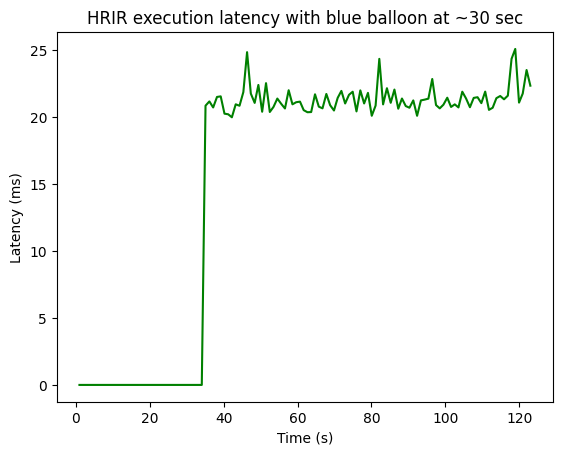
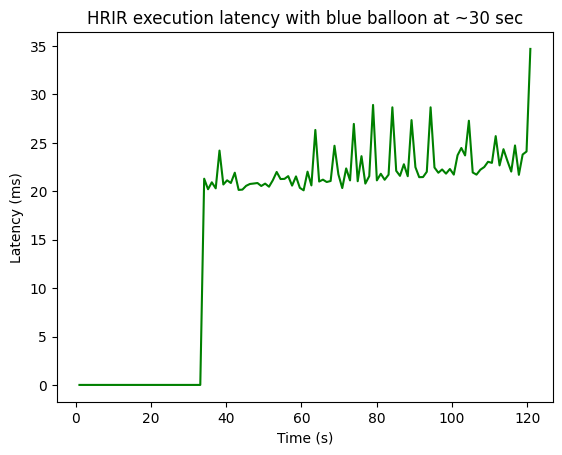
fps and latency tests finished

diff --git a/code/object_localization.py b/code/object_localization.py
@@ -204,7 +204,7 @@ def audio_process(conn, sr, master_clock):
             if (current_time - start_time) >= latency_interval:
                 dropped.append(dropped_targets)
                 latency.append(calc_t*1000) #latency will be in milliseconds
-                atTime.append(current_time-base_time)
+                atTime.append(current_time-master_clock)
                 dropped_targets = 0
                 counter = 0
                 start_time = time.time()
@@ -214,21 +214,23 @@ def audio_process(conn, sr, master_clock):
         stream.stop()
         stream.close()
 
+        #Latency tests:
+        """
         plt.plot(atTime, latency, color="green")
-        plt.title('HRIR execution latency with blue balloon at ~30 sec')
+        plt.title('HRIR execution latency with human at ~30 sec')
         plt.xlabel('Time (s)')
         plt.ylabel('Latency (ms)')
 
-        plt.savefig("per_sec_latency_plotCol_blueBalloon_30sec_check.png", bbox_inches='tight')
+        plt.savefig("per_sec_latency_plotNN_human_30sec.png", bbox_inches='tight')
 
         plt.clf()
 
         plt.plot(atTime, dropped, color="orange")
-        plt.title('Amount of old targets discarded with blue balloon at ~30 sec')
+        plt.title('Amount of old targets discarded with human at ~30 sec')
         plt.xlabel('Time (s)')
         plt.ylabel('Dropped targets')
     
-        plt.savefig("per_sec_dropped_plotCol_blueBalloon_30sec_check.png", bbox_inches='tight')
+        plt.savefig("per_sec_dropped_plotNN_human_30sec.png", bbox_inches='tight')
 
         results = {
             "time": atTime,
@@ -237,7 +239,8 @@ def audio_process(conn, sr, master_clock):
             "dropped_targets": dropped
         }
 
-        np.save("per_sec_latency_dataCol_blueBalloon_30sec_check.npy", results)
+        np.save("per_sec_latency_dataNN_human_30sec.npy", results)
+        """
 
 #--------------------------------------------------#
 #------------------MAIN CAMERA LOOP----------------#
@@ -302,7 +305,7 @@ if __name__ == "__main__":
 
             fps_interval = 1 #to display the frame rate every x second
             counter = 0
-            base_time = time.time()
+            #base_time = time.time()
             start_time = time.time()
             while True:
                 #get metadata from camera
@@ -371,10 +374,10 @@ if __name__ == "__main__":
                         pixel_area = pixel_w*pixel_h
                         real_area = real_w*real_h
 
-                        #distance = np.sqrt((real_area*focal_area)/float(pixel_area))
+                        distance = np.sqrt((real_area*focal_area)/float(pixel_area))
 
                         img_area = width*height
-                        distance = np.sqrt(focal_area*real_area*img_area/float(pixel_area)/(sensor_size**2))
+                        #distance = np.sqrt(focal_area*real_area*img_area/float(pixel_area)/(sensor_size**2))
                         #if real_area < 0.5:
                         #   chirp.set_len(0.4)
                         
@@ -405,16 +408,16 @@ if __name__ == "__main__":
                 if (current_time - start_time) >= fps_interval:
                     #print("FPS: ", counter / (current_time - start_time))
                     fps.append(counter / (current_time - start_time))
-                    atTime.append(current_time-base_time)
+                    atTime.append(current_time-master_clock)
                     counter = 0
-                    if current_time-base_time >= 120:
+                    if current_time-master_clock >= 120:
                         raise KeyboardInterrupt
                     start_time = time.time()
                 
 
                 #fps.append(1.0 / (current_time - start_time))
-                #atTime.append(current_time-base_time)
-                #if current_time-base_time >= 60:
+                #atTime.append(current_time-master_clock)
+                #if current_time-master_clock >= 60:
                 #    raise KeyboardInterrupt
                 #print("FPS: ", 1.0 / (current_time - start_time)) # FPS = 1 / time to process loop
                 
@@ -434,7 +437,7 @@ if __name__ == "__main__":
             #ellipsoider
             fps_interval = 1 #to display the frame rate every x second
             counter = 0
-            base_time = time.time()
+            #master_clock = time.time()
             start_time = time.time()
             while True:
                 img = picam.capture_array()
@@ -523,17 +526,17 @@ if __name__ == "__main__":
                 if (current_time - start_time) >= fps_interval:
                     #print("FPS: ", counter / (current_time - start_time))
                     fps.append(counter / (current_time - start_time))
-                    atTime.append(current_time-base_time)
+                    atTime.append(current_time-master_clock)
                     counter = 0
-                    if current_time-base_time >= 120:
+                    if current_time-master_clock >= 120:
                         raise KeyboardInterrupt
                     start_time = time.time()
                 
                 """
                 current_time = time.time()
                 fps.append(1.0 / (current_time - start_time))
-                atTime.append(current_time-base_time)
-                if current_time-base_time >= 60:
+                atTime.append(current_time-master_clock)
+                if current_time-master_clock >= 60:
                     raise KeyboardInterrupt
                 """
 
@@ -544,13 +547,14 @@ if __name__ == "__main__":
         picam.stop()
         picam.close()
         
-        
+        #Latency tests
+        """
         plt.plot(atTime, fps)
-        plt.title('Performance of color segmentation per second with blue balloon at ~30 sec')
+        plt.title('Performance of MobileNet SSD per second with human at ~30 sec')
         plt.xlabel('Time (s)')
         plt.ylabel('FPS (1/s)')
         
-        plt.savefig("per_second_fps_plotCol_blueBalloon_30sec_check.png", bbox_inches='tight')
+        plt.savefig("per_second_fps_plotNN_human_30sec.png", bbox_inches='tight')
 
         results = {
             "time": atTime,
@@ -558,4 +562,5 @@ if __name__ == "__main__":
             "color_entry_time": object_time
         }
 
-        np.save("per_second_fps_dataCol_blueBalloon_30sec_check.npy", results)
+        np.save("per_second_fps_dataNN_human_30sec.npy", results)
+        """

diff --git a/code/checkVals.py b/code/checkVals.py
@@ -1,5 +1,6 @@
 import numpy as np
 
+"""
 results = np.load("calib_results.npy", allow_pickle=True)
 mtx = results.item()["camera matrix"]
 dist = results.item()["distortion coeff"]
@@ -8,6 +9,7 @@ R = results.item()["rotation vector"]
 
 valid = results.item()["valid imgs"]
 print(len(valid))
+"""
 
 """
 #-------------MobileNet fps data------------#
@@ -62,32 +64,32 @@ fps = results.item()["fps"] #mean: 29.53490502248249
 print(np.mean(fps))
 """
 
-"""
-#--------------MobileNet data 120 sec--------------#
+
+#--------------MobileNet latency data 120 sec--------------#
 results = np.load("per_sec_latency_dataNN_human_30sec.npy", allow_pickle=True)
-timestamp = results.item()["human_entry_time"] #33.56586527824402 sec
-latency = results.item()["latency"] #mean: 21.668856171355852  ms
+timestamp = results.item()["human_entry_time"] #34.7148380279541 sec
+latency = results.item()["latency"] #mean after 30 sec: 21.55130742544151   ms
 
 max_l = max(latency)
-print(max_l)
+#print(max_l)
 latency_max_i = latency.index(max_l)
-print(max_l - latency[latency_max_i])
+#print(max_l - latency[latency_max_i])
 
-#print(timestamp)
+print(timestamp)
 human_entry_i = int(round(timestamp[0]))-1
-#print(np.mean(latency[human_entry_i:]))
+print(np.mean(latency[human_entry_i:]))
 #halftime_i = round(((len(latency)-1)-human_entry_i)/2)
 #print(np.mean(latency[human_entry_i:halftime_i]))
 #print(np.mean(latency[halftime_i:len(latency)]))
 
 results = np.load("per_second_fps_dataNN_human_30sec.npy", allow_pickle=True)
-timestamp = results.item()["human_entry_time"] #30.100055932998657 sec
-fps = results.item()["fps"] #mean: 29.770193573063107
+timestamp = results.item()["human_entry_time"] #34.71368145942688 sec
+fps = results.item()["fps"] #mean after 30 sec: 30.24096638298773
 
-print(fps[latency_max_i])
-#print(timestamp)
+#print(fps[latency_max_i])
+print(timestamp)
 human_entry_i = int(round(timestamp[0]))-1
-#print(np.mean(fps))
+print(np.mean(fps[human_entry_i]))
 #Latency is 29.552698135375977 ms at max. At this same point, fps is 29.967384074139964
 #It takes the HRIR ~29.553 ms to calculate, while a frame is processed in ~33.370 ms. No targets are thrown out
 
@@ -95,6 +97,38 @@ for i in range(len(fps)):
     if latency[i] > fps[i]:
         print("bad")
 
+
+
+"""
+#--------------ColSeg latency data 120 sec--------------#
+results = np.load("per_sec_latency_dataCol_blueBalloon_30sec.npy", allow_pickle=True)
+timestamp = results.item()["color_entry_time"] #33.17031669616699 sec
+latency = results.item()["latency"] #mean after 30 sec:22.20129418647152  ms
+
+#print(timestamp)
+human_entry_i = int(round(timestamp[0]))-1
+print(timestamp)
+print(np.mean(latency[human_entry_i:]))
+#halftime_i = round(((len(latency)-1)-human_entry_i)/2)
+#print(np.mean(latency[human_entry_i:halftime_i]))
+#print(np.mean(latency[halftime_i:len(latency)]))
+
+results = np.load("per_second_fps_dataCol_blueBalloon_30sec.npy", allow_pickle=True)
+timestamp = results.item()["color_entry_time"] #33.169421672821045 sec
+fps = results.item()["fps"] #mean after 30 sec: 30.016412237047067
+
+#print(fps[latency_max_i])
+#print(timestamp)
+human_entry_i = int(round(timestamp[0]))-1
+print(timestamp)
+print(np.mean(fps[human_entry_i:]))
+
+for i in range(len(fps)):
+    if latency[i] > fps[i]:
+        print("bad")
+        print(i)
+
+"""
 """
 #---------------MobileNet data 120 sec stress test-------------#
 results = np.load("per_sec_latency_dataNN_human_30sec_check.npy", allow_pickle=True)
@@ -109,34 +143,7 @@ for i in range(len(fps)):
     if latency[i] > 1000/fps[i]:
         print("bad")
         print(i)
-#bottleneck at indices 110, 111, 112 and 115.
-
-"""
-#--------------ColSeg latency data per second --------------#
-results = np.load("per_sec_latency_dataCol_blueBalloon_30sec_check.npy", allow_pickle=True)
-timestamp = results.item()["color_entry_time"] #34.599791049957275 sec
-latency = results.item()["latency"] #mean: 21.36759648377868 ms
-
-#print(timestamp)
-human_entry_i = int(round(timestamp[0]))-1
-print(np.mean(latency))
-#halftime_i = round(((len(latency)-1)-human_entry_i)/2)
-#print(np.mean(latency[human_entry_i:halftime_i]))
-#print(np.mean(latency[halftime_i:len(latency)]))
-
-results = np.load("per_second_fps_dataCol_blueBalloon_30sec_check.npy", allow_pickle=True)
-timestamp = results.item()["color_entry_time"] #31.15688443183899 sec
-fps = results.item()["fps"] #mean: 29.772201347246206
-
-#print(fps[latency_max_i])
-#print(timestamp)
-human_entry_i = int(round(timestamp[0]))-1
-print(np.mean(fps))
-
-for i in range(len(fps)):
-    if latency[i] > fps[i]:
-        print("bad")
-        print(i)
+#bottleneck at index115.
 
 #---------------Colseg data 120 sec stress test-------------#
 #1:
